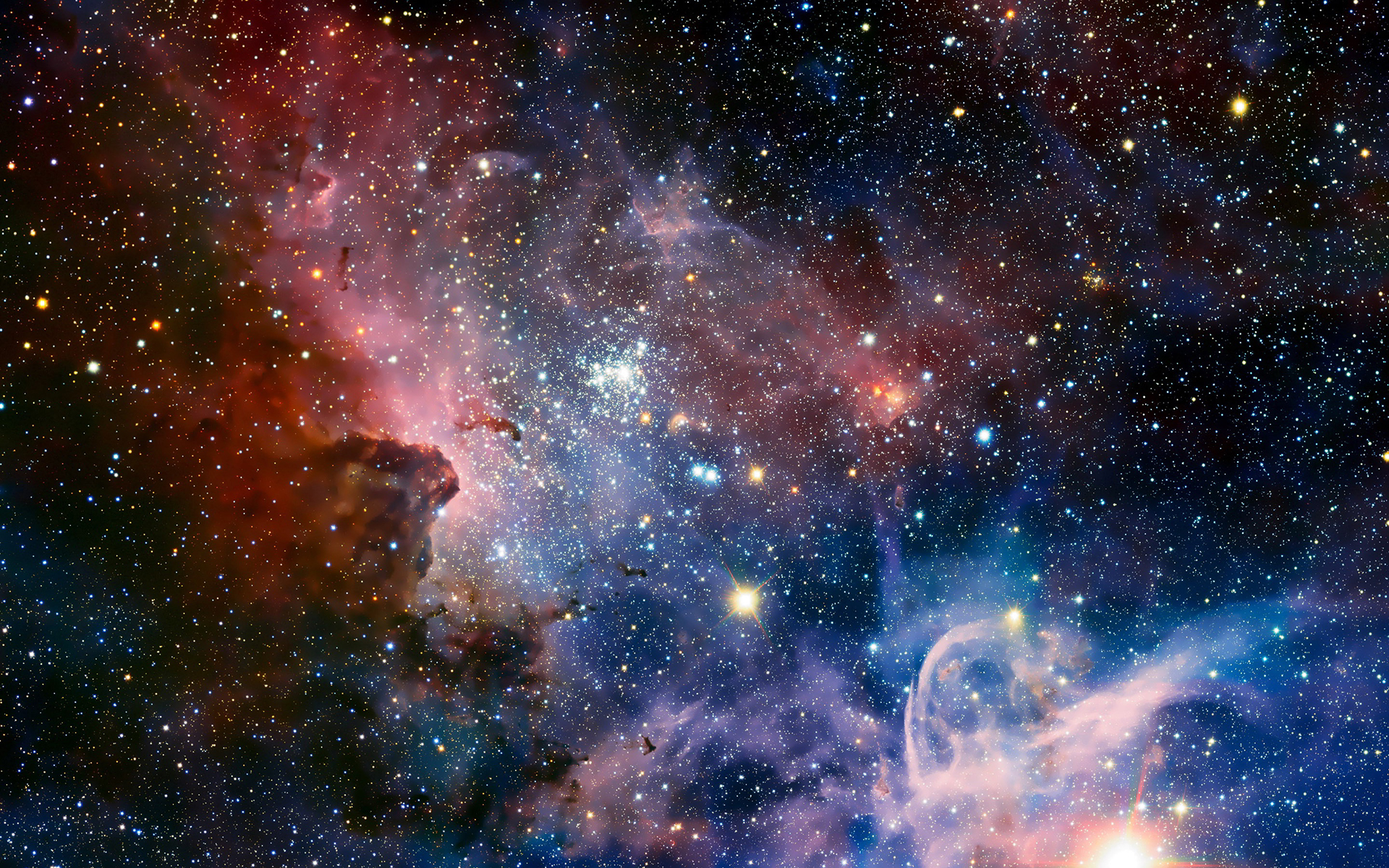
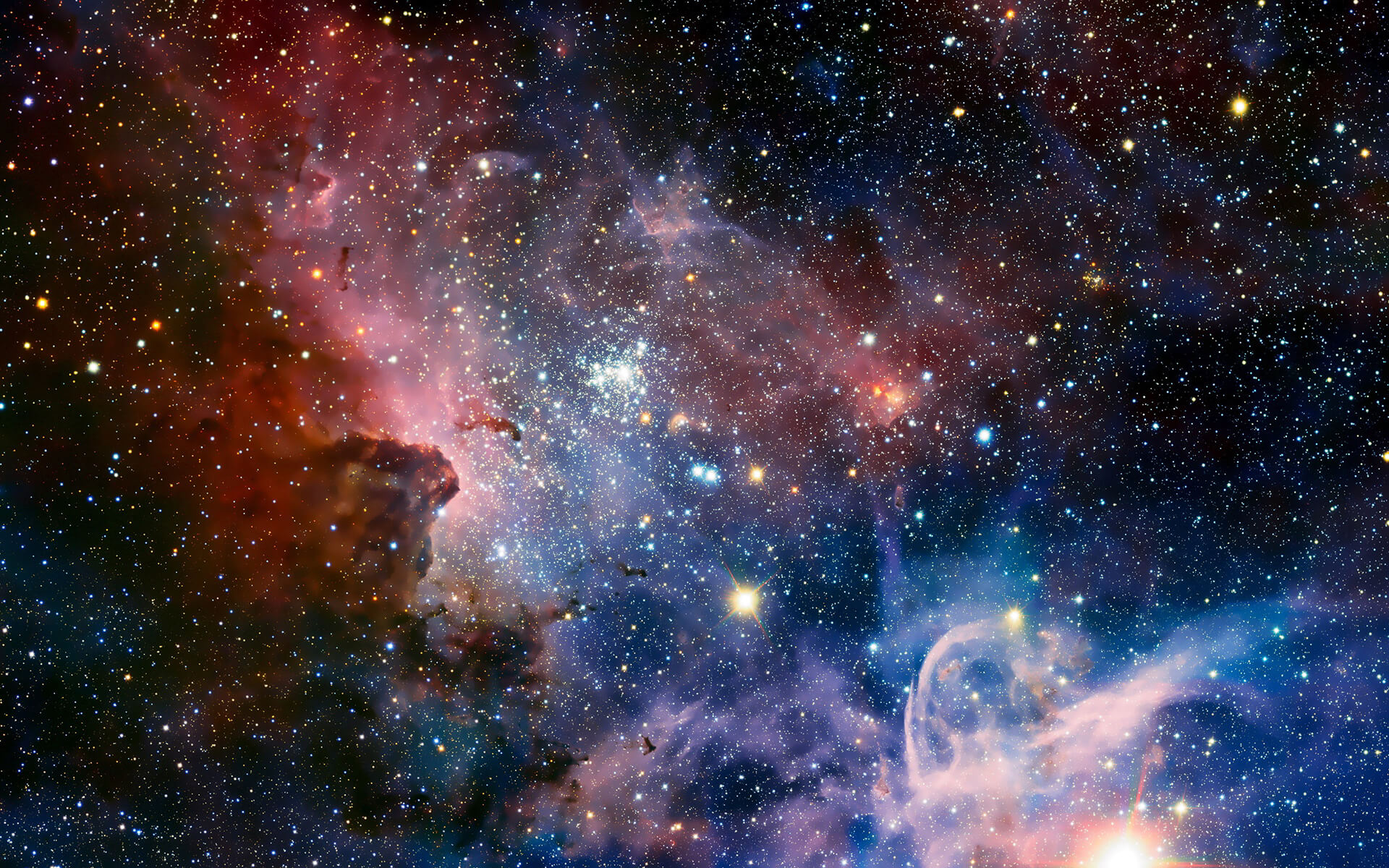
Added about, compressed images, updated license
Added about section. added in index and css. Added google fonts, added new image. Compressed down large images to make them load faster. The license file was updated to reflect all new changes to the website.

diff --git a/index.html b/index.html
@@ -15,7 +15,7 @@ License at https://qsconference.com/license.html
 
 
     <!-- Google Fonts -->
-
+    <link href="https://fonts.googleapis.com/css?family=Megrim|Oxygen|Quicksand|Raleway+Dots|Raleway&display=swap" rel="stylesheet"> 
 
     <!-- Required meta tags -->
     <meta charset="utf-8">
@@ -37,7 +37,7 @@ License at https://qsconference.com/license.html
   </head>
   <body>
 
-    <!-- Landing Section - landing page -->
+    <!------ Landing Section - landing page ------>
     <section id="landing">
       <!-- Floating stuff -->
       <div class="landing-items">
@@ -55,10 +55,19 @@ License at https://qsconference.com/license.html
         <!-- END particles.js -->
     </section>
 
+    <!------ About Section ------->
+    <section id="about">
+      <div class="container">
+        <div class="row">
+          <div class="col-md-6">
+            <h1>About QSC 2020</h1>
+          </div>
 
+        </div>
+      </div>
+    </section>
 
-
-    <!-- Footer -->
+    <!------ Footer ------>
     <footer id="footer">
       <div class="container">
         <div class="archive">

diff --git a/license.html b/license.html
@@ -20,6 +20,14 @@
 		</li>
 	</ul>
 
+	<h3>Fonts</h3>
+	<ul>
+		
+		<li>Megrim - Designed by Daniel Johnson, <a href="https://fonts.google.com/specimen/Megrim">Distributed by Google Fonts</a></li>
+		<li>Oxygen - Designed by Vernon Adams, <a href="https://fonts.google.com/specimen/Oxygen">Distributed by Google Fonts</a></li>
+		<li></li>
+	</ul>
+
 	<h3>Libraries</h3>
 	<ul>
 		<li><a href="http://daneden.me/animate">animate.css</a> by Daniel Eden &copy; 2017. Used under the <a href="http://opensource.org/licenses/MIT">MIT License</a>
@@ -34,7 +42,8 @@
 
 	<h3>Media</h3>
 	<ul>
-		<li>Media credit here</li>
+		<li>About Section - Canadarm2 image 'iss038e015406' - <a href="https://images.nasa.gov/details-iss038e015406">Source-NASA</a></li>
+		<li></li>
 	</ul>
 
 

diff --git a/css/style.css b/css/style.css
@@ -87,8 +87,25 @@ get started button hover
 	color: #fff;
 	font-size: 35px;
   text-align: center;
+  font-family: 'Megrim', cursive;
 }
 
+/* -------- About -------- */
+
+#about {
+  background: url("../img/iss038e015406~orig.jpg");
+  background-size: cover;
+  overflow: hidden;
+  position: relative;
+  padding: 30px 0 20px 0;
+}
+
+#about h1 {
+  z-index: 1;
+  color: #fff;
+  font-size: 35px;
+  font-family: 'Oxygen', sans-serif;
+}
 
 /* -------- Footer -------- */
 
